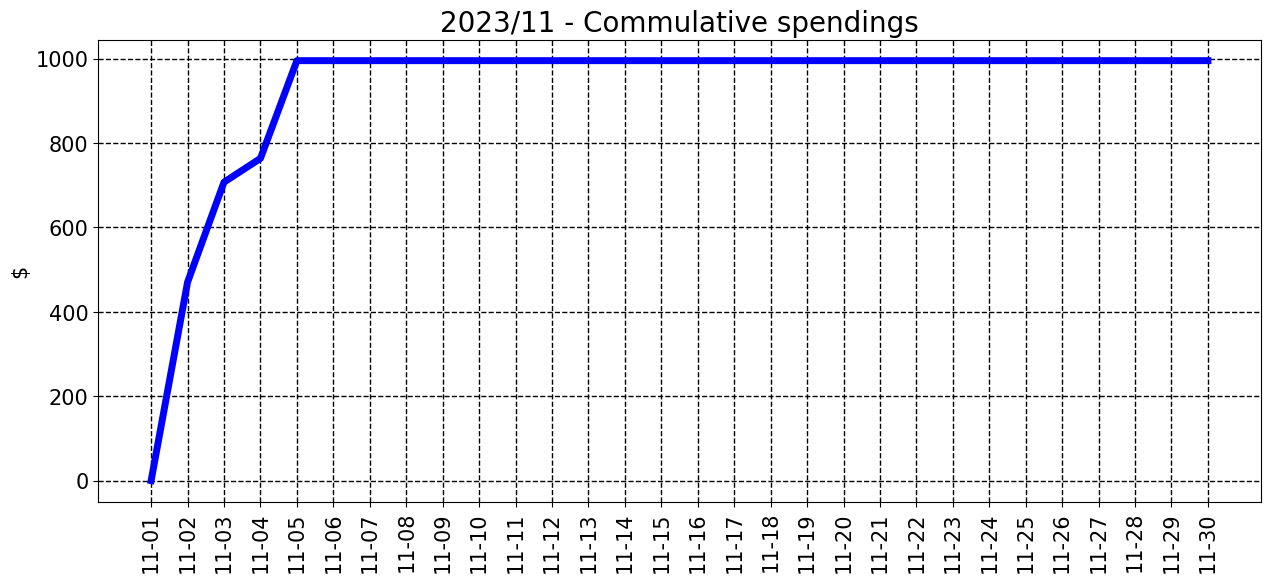
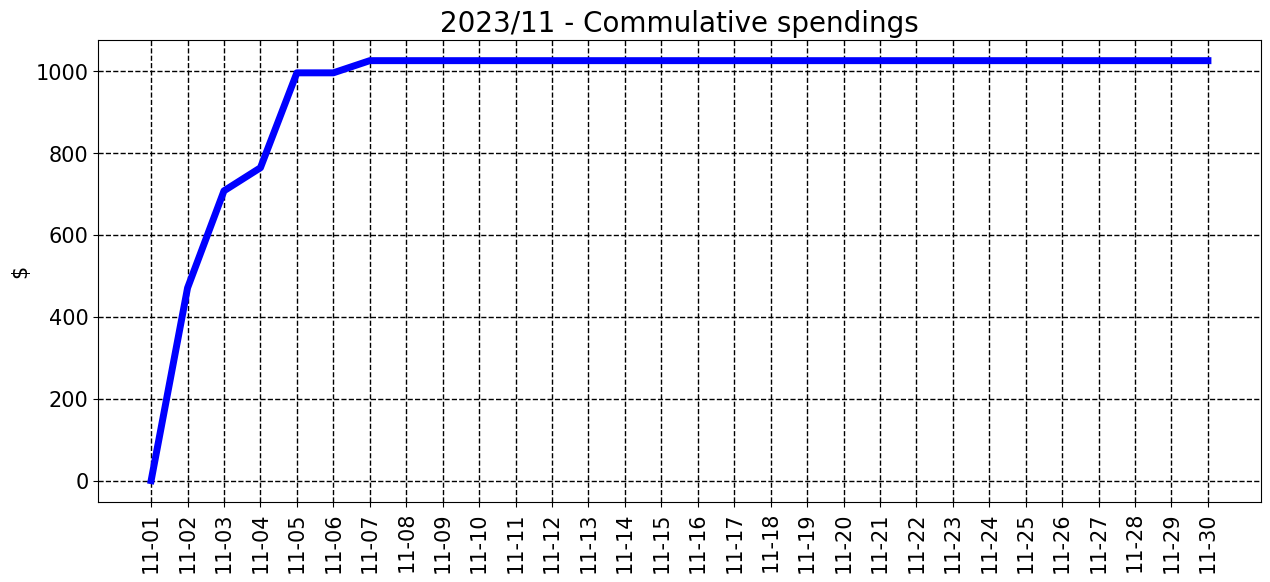
commit from python

diff --git a/README.md b/README.md
@@ -7,7 +7,7 @@ __________________________________
 <sub><sup>
 | Spent | Avg daily | End of month projection | Spent since 2023/7 |
 |---|---|---|---|
-| $995.0  |  $142.2  | $4266.0  |  $21299.0  |
+| $1025.0  |  $146.4  | $4392.0  |  $21329.0  |
 </sub></sup>
 __________________________________
 ![graph_11_sum](graph_11_sum.png)
